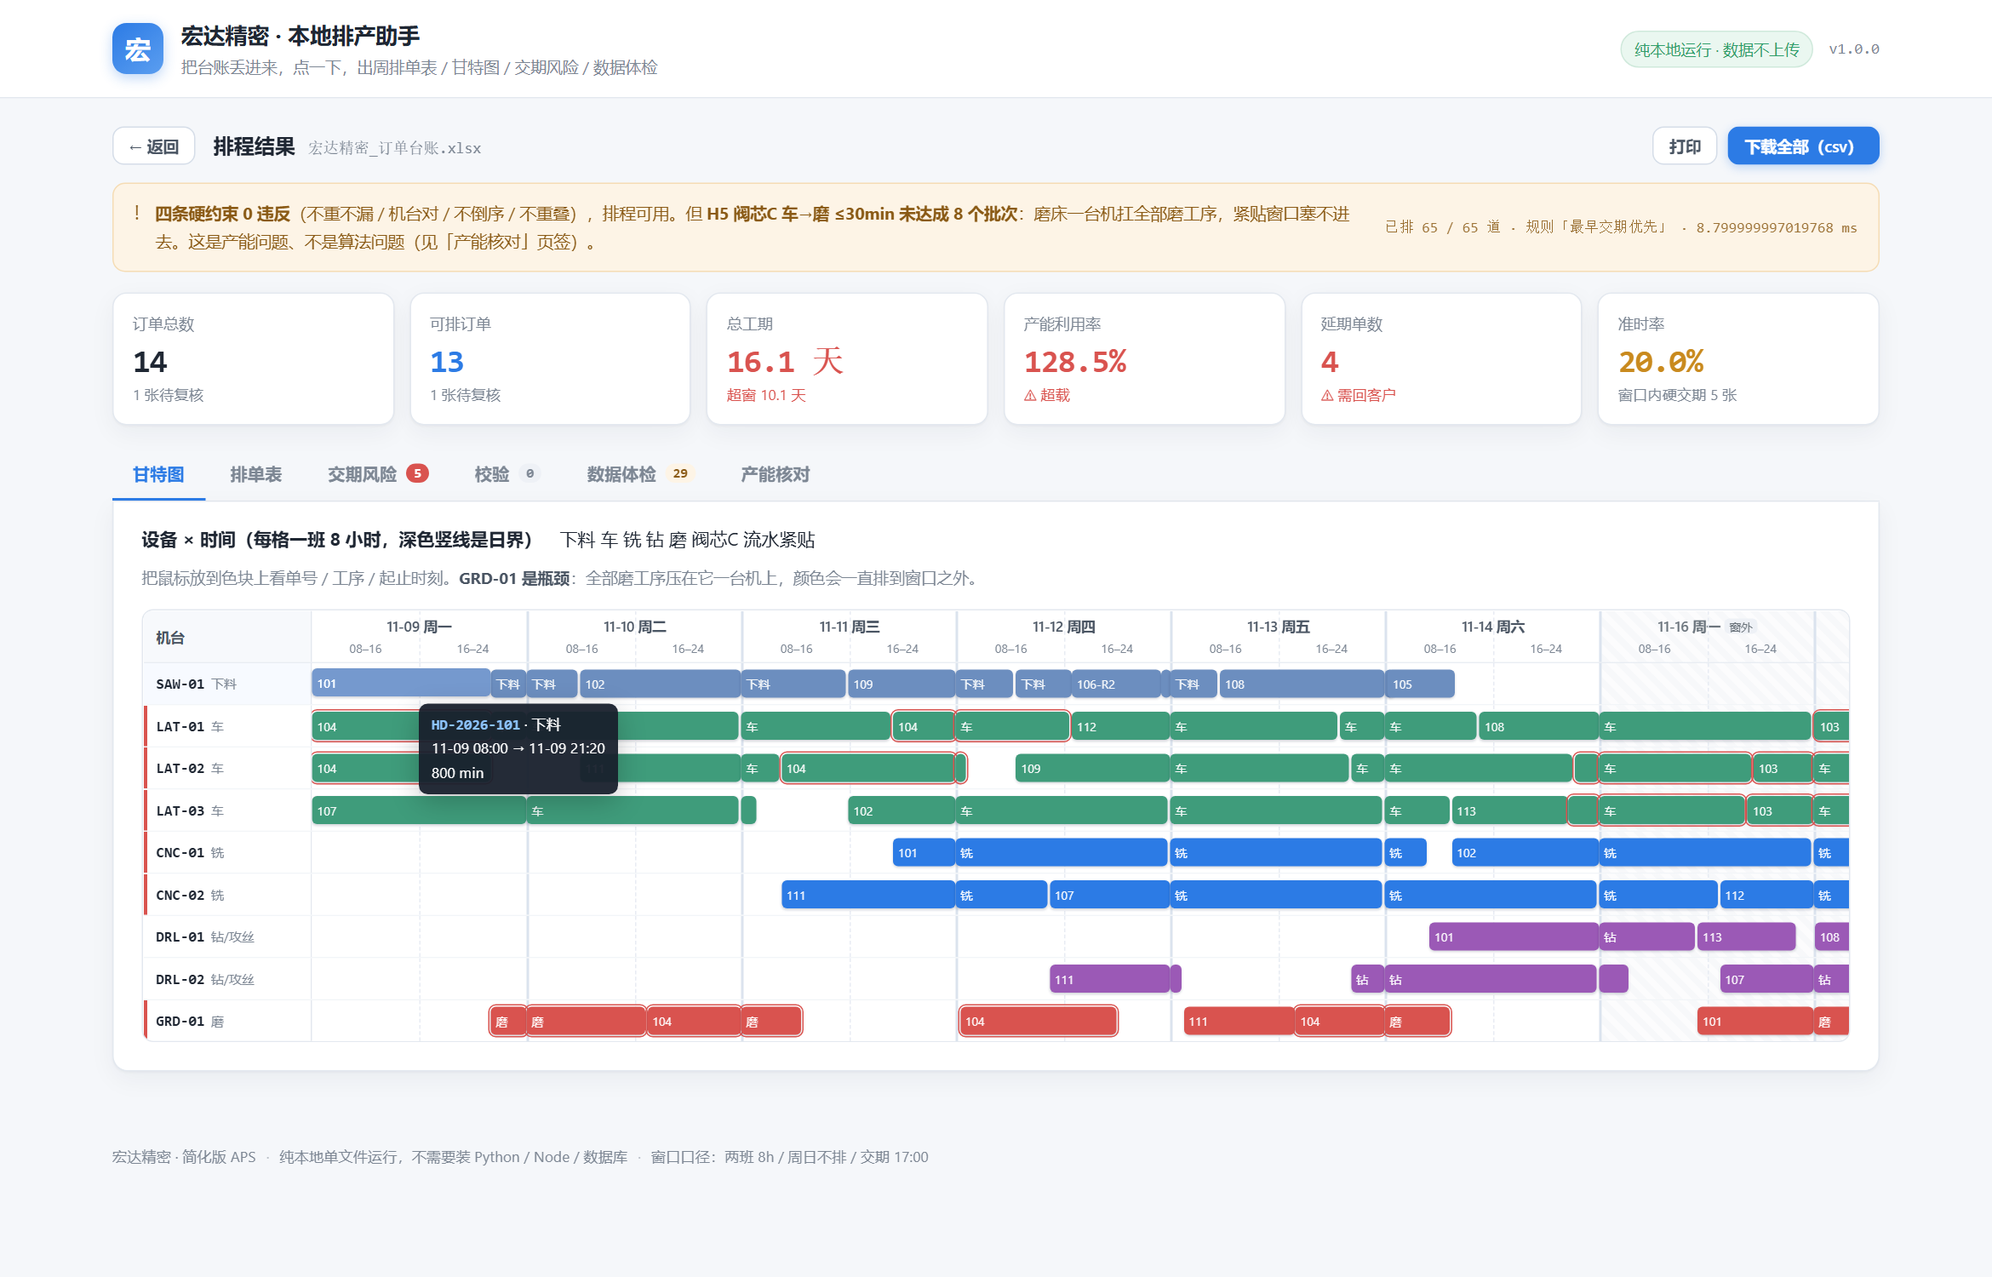
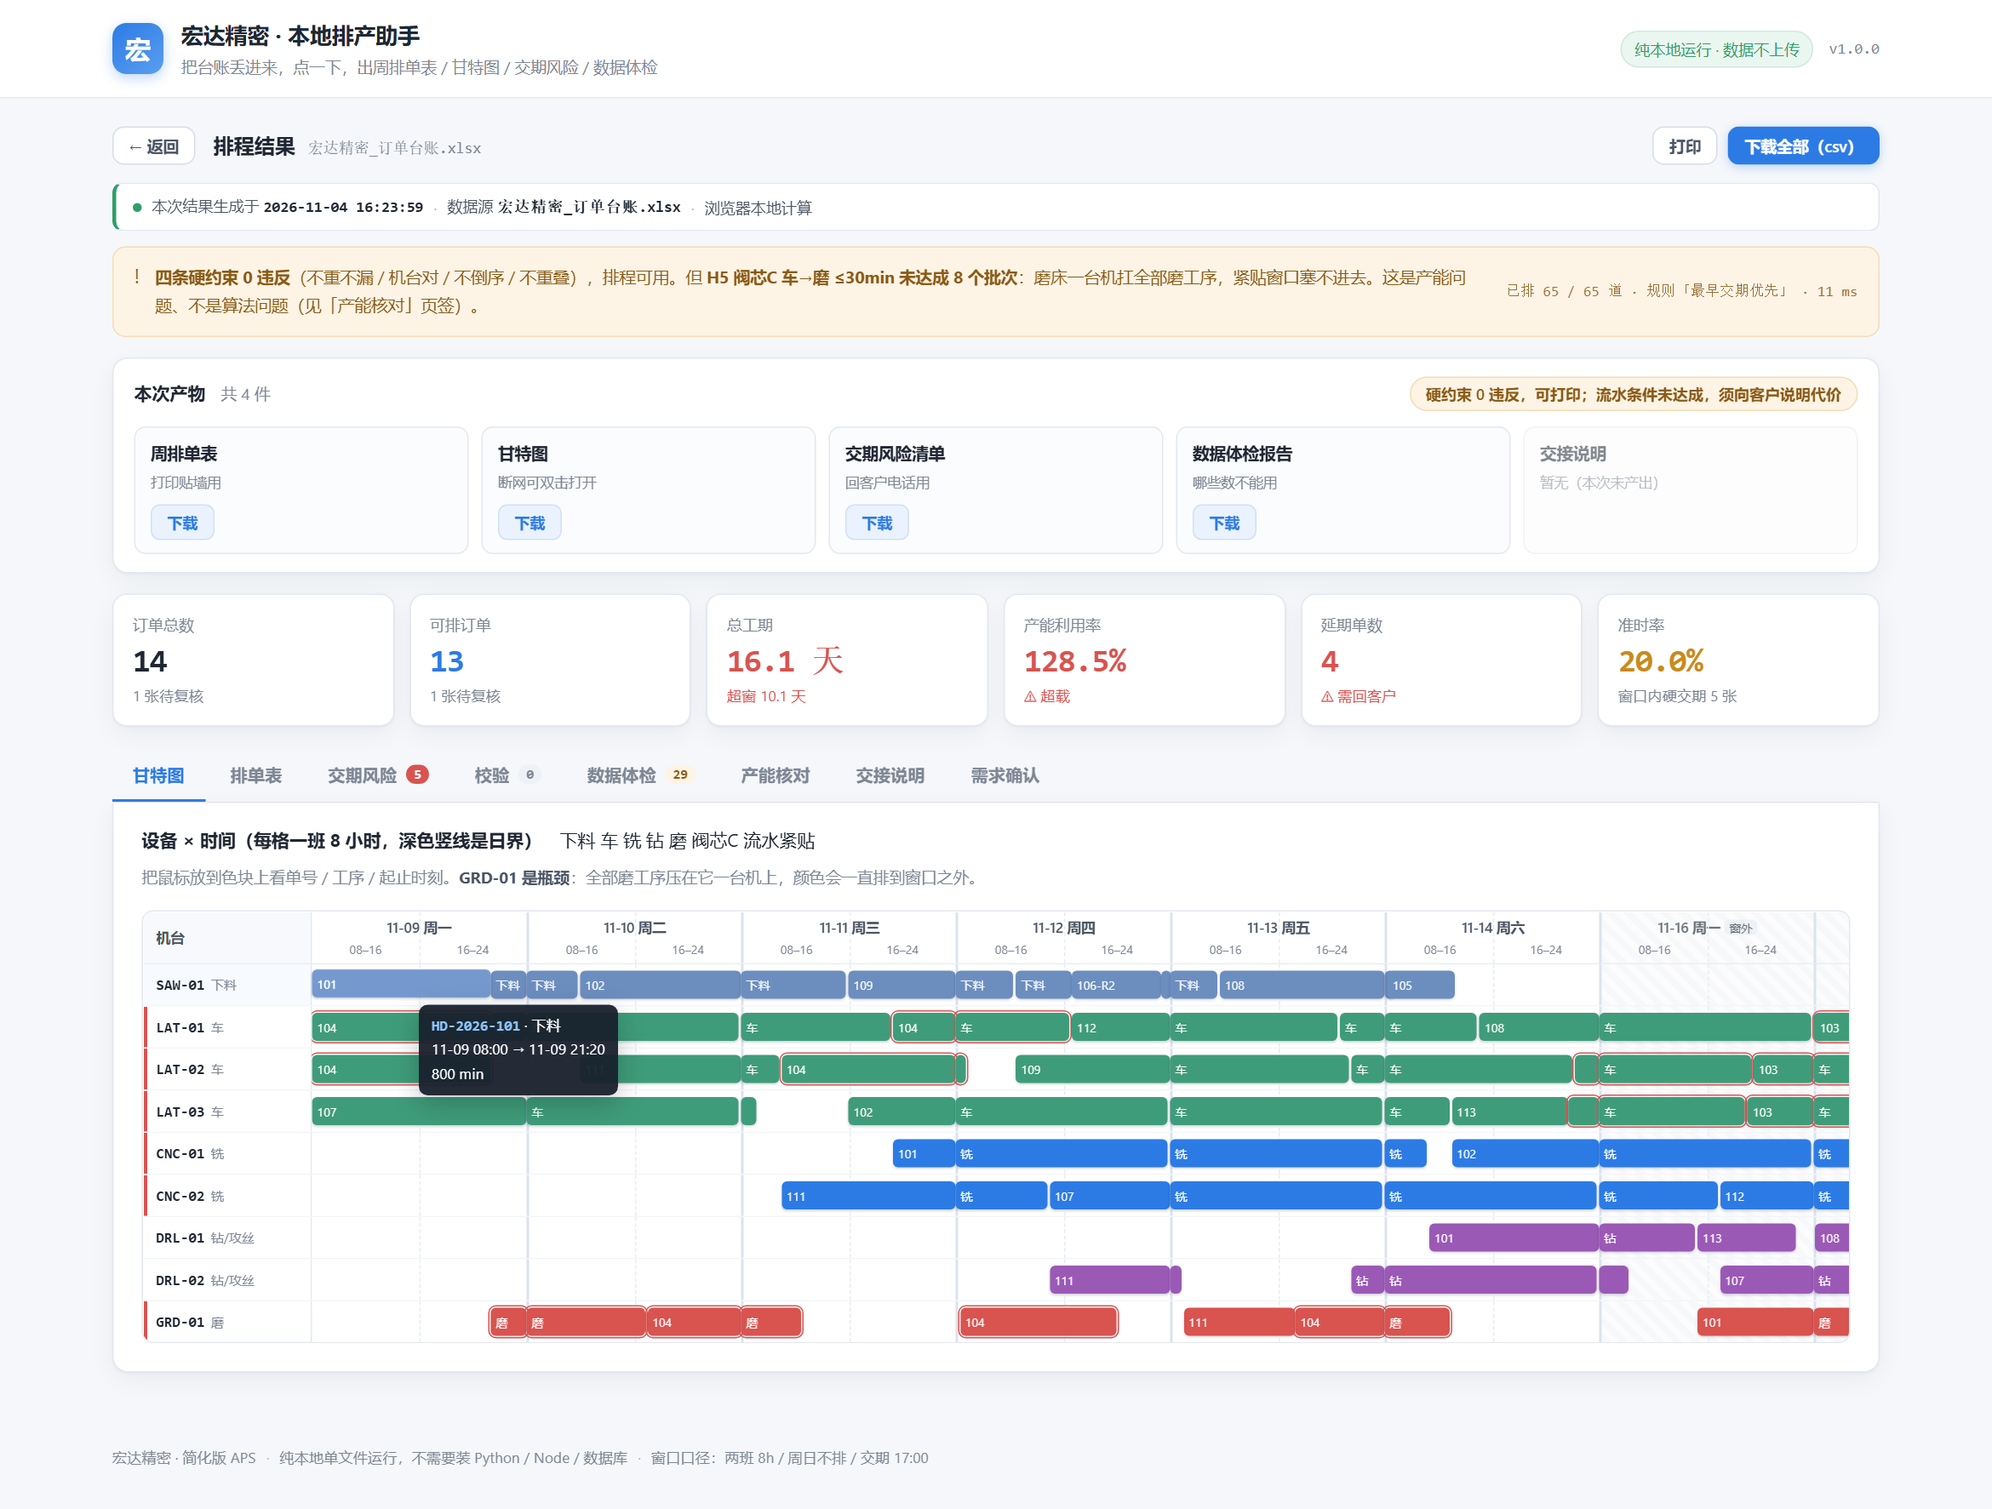
docs: 截图更新至 17 张，补并行开发说明与目录树
- docs/ui/ 更新实拍截图（新增产物区/失败态/交接说明/需求确认 5 张）
- 附录E 交付清单补全至 17 张
- README 目录树补 core/confirm.py、core/handover.py、frontend/datasource.js
- 产物口径改为七件
- 新增 docs/并行开发/：前后端分头改的任务边界说明

diff --git a/docs/并行开发/后端任务说明.md b/docs/并行开发/后端任务说明.md
@@ -1,0 +1,112 @@
+【范围】宏达精密 · 本地排产助手，后端部分。只改这些文件与目录：
+run.py、core/（report.py / checker.py / 新增 confirm.py）、server/app.py、tests/。
+不要碰 frontend/ 下任何文件——前端由另一个会话并行改。
+
+【项目现状】入口 python run.py data/宏达精密_订单台账.xlsx --out out
+产出：排单表.xlsx / 甘特图.html / 风险清单.xlsx / 体检报告.md / 校验报告.txt
+校验器 H1~H5：H1 不重不漏、H2 机台工时一致、H3 不倒序、H4 同机台不重叠、H5 阀芯C 流水间隔。
+唯一外部依赖 openpyxl。tests/test_core.py 现有 46 条单测，必须保持全绿。
+
+════════ 任务 B1 · 补齐「交接说明」产物 ════════
+【为什么】PPT 第9页要求交六件，第21页写「四样缺一不可，只交前两样是做了个模型，
+不是交付」，第26页把「没有交接说明」列为直接不及格。现在完全没有这份产物。
+
+【做什么】在 core/report.py 新增 write_handover_md()，run.py 第 7 步与另外四件一起调用，
+输出 out/交接说明.md。内容四块，写给不懂技术的计划员，禁止出现 solver / CP-SAT / Operation：
+
+1. 怎么重跑——台账放哪、敲哪条命令、产物在哪；4~6 个常用参数各写「什么时候该用它」
+   （--enable-grd02 / --morning-as-group / --enable-cnc03 / --lot-size N /
+   --allow-mill-substitute）；先看校验报告.txt 的「结果：」一行，再看风险清单
+2. 假设清单 ≥5 条，每条必须两半：「假设是什么」+「不成立会怎样」
+   覆盖：三班车床按两班、换型调机未建模、人员资质未建模、工时按标准值、
+   只排本周 6 天周日不排、磨点名 GRD-01、HT-01 外协不计本厂产能
+3. 已知局限：不建模换型（实际完工会晚 10~30%）、不建模人员资质、
+   插单只预演不自动重排、阀芯C「车间隔 ≤30 分钟」为口头澄清未签字
+4. 什么条件下不能信：CNC-03 停机期间禁换机台会大量排不进、
+   磨床瓶颈一变结论就变、数据改了必须重跑不许手改表
+
+【硬约束】必须程序生成、随数据和参数自动更新，不许写死一份手写文档；
+参数/假设/局限三处内容从 config.py 与 RunOptions 取，不在模板里复制会脱钩的副本；
+PASS_WITH_WARN 时仍要生成；不引入新依赖。
+
+【验收】
+1. 跑完 out/交接说明.md 存在，退出码 0
+2. 文档里每个参数名都能被 python run.py --help 查到（双向核对，错一个即不通过）
+3. 假设清单 ≥5 条且每条两个部分齐全
+4. 换一份改了数量的台账重跑，文中引用的数量/窗口/机台数跟着变
+
+════════ 任务 B2 · 补齐「需求确认单」产物 ════════
+【为什么】PPT 第9页第 1 件交付物就是需求确认单（一页纸 = 我理解的三件事 + 我问到的答复），
+第16页要求「从 10 个必问问题里挑 5 个」，自检点是「每个答复是否改变了你的某个判断」。
+
+【更要紧的一条】config.py 的 FLOW_CONSTRAINTS 有一条定量约束：
+阀芯C 车完工→磨开工等待 ≤30 分钟，source 标为「客户 2026-10-28 澄清 C3」，confirmed: False。
+但「30 分钟」在 27 页 PPT、APS工具开发任务书.docx、APS工具开发项目手册.docx 里
+全部查不到出处。这条未签字的口头约束现在决定了整个交付结论的性质
+（磨床缺口 6,590 → 7,940 min，差约 1.4 个工作日）。必须让它对客户可见。
+
+【做什么】新增 core/confirm.py 生成 out/需求确认单.md，固定五段：
+① 我理解的三件事（恰 3 条，每条一句，取自 PPT 第7页客户原话）
+② 客户明确不要的（装一堆东西 / 必须联网 / 按年付费）
+③ 恰 5 个问答，三列表格：问题 | 客户答复 | 这个答复改变了什么判断
+④ 未确认事项单列一节：把 FLOW_CONSTRAINTS 里 confirmed: False 的全列出，
+   每条写当前取值、来源、已按此实现、客户确认后改哪里
+⑤ 待客户签字栏（姓名 / 日期 / 逐条打勾）
+
+5 个问题从这批里挑最能影响结果的：时间原点、班次口径（LAT-03 是否 3 班）、
+交期口径（当日 17:00 还是收工前）、「尽快」「月底前」怎么算、
+CNC-03 停几天且期间能否换机台、GRD-02 能否分担磨、
+阀芯C「别排太散」具体多少分钟、HD-2026-110 数量何时给、
+HD-2026-106 重复两次是两单还是一单、HD-2026-113「先做一半」按 17.5 件对不对。
+代表答的客户答复若暂无答复，写「待客户确认」，严禁编造。
+
+【硬约束】不许出现第二份「30 分钟」字面副本，确认单取值从 config.py 读取，单一数据源；
+不改 H5 阈值与判定逻辑；对客户的文档不许出现代码文件名与内部术语。
+
+【验收】
+1. 单页 A4 放得下，三件事恰 3 条、问答恰 5 条
+2. 每个问答第三列都有内容，空值即不通过（写不出来说明该换问题）
+3. 把 max_gap_min 由 30 改 25 重新生成，第④节数值变 25（证明未硬编码），改回 30
+4. 单子里机台号/单号与 data/宏达精密_订单台账.xlsx 实际存在的一致，错一个即不通过
+
+════════ 任务 B3 · 产物新鲜度自洽 ════════
+【问题】run.py 现在先写体检报告和校验报告，再 if not rep.ok: 打印
+「[校验未过] 拒绝渲染排程表/甘特图/风险清单」并 return 1 —— 不写三件，但也不清理旧文件。
+实测 out/ 会同时存在「校验报告.txt 说 FAIL」和「排单表.xlsx / 甘特图.html / 风险清单.xlsx
+是上一次成功运行的旧版本」。计划员按习惯直接打印 out/排单表.xlsx 贴墙，
+就把上一版当成这一版用，没有任何提示。正是 PPT 第24页「换了数据就跑不了」、
+第25页「校验器 0 违反，全过再交」要防的事故。
+
+【做什么】采用归档方案（不要直接删）：
+1. 校验未过时，把三件旧产物逐个精确改名加 .stale 或移到 out/_stale/，
+   并在校验报告.txt 写「本次未生成，上一版已归档到 _stale/」
+2. 校验通过（含 PASS_WITH_WARN）时行为不变：五件产物正常写，覆盖归档
+3. H5 未达成不得导致不出表——H5 是客户流水条件不是硬约束，PASS_WITH_WARN 必须出全部产物
+4. 写文件前打印清单：这次生成了哪几件、跳过哪几件、归档哪几件
+
+【硬约束】严禁通配符删除（*.xlsx、*_backup* 之类）——这个目录下有用户自己的备份，
+曾因 find -name "*.bak*" -delete 误删过；所有删除/移动先打印绝对路径再执行，只用逐个精确文件名。
+不改排程算法、不改 H5 阈值、不加依赖。
+
+【验收】
+1. 用缺 sheet 的 xlsx 跑，out/ 下不留「看起来新鲜」的旧排单表，或已明确归档且有提示
+2. 正常台账重跑后五件恢复最新、不带 .stale
+3. 校验报告.txt 的结论与 out/ 实际产物集合完全一致
+
+════════ 任务 B4 · 暴露契约字段给前端 ════════
+server/app.py 的 /api/generate 响应按第 0 节契约补齐 summary / verify.hardViolations /
+verify.softViolations / verify.resultCn / artifacts / staleArchived / handover / confirm。
+旧字段一个不删（前端可能还在用）。artifacts 里每项的 downloadUrl 必须真实可下载
+（走现有 /api/download/<name>），stale 文件不得出现在正常 artifacts 列表里，
+只能出现在 staleArchived。
+
+【验收】/api/generate 返回体逐字段对照契约无缺项；前端未改的情况下旧功能不退化。
+
+════════ 后端段总验收（四项全做完一起验）════════
+1. python run.py data/宏达精密_订单台账.xlsx --out out 退出码 0，
+   out/ 下五件产物（含交接说明.md、需求确认单.md）全部刷新
+2. python tests/test_core.py 输出「通过 46 / 失败 0」
+3. 启 python server/app.py --port 8801 后，用 curl 或脚本取一次 /api/generate，
+   返回体契约字段齐全
+注意：改完必须重启 8801 上的服务再验；且确认只有一个 python 进程占着该端口
+（多个实例会连到旧代码，给出假结果——这个坑踩过一次）。

diff --git a/docs/并行开发/前端任务说明.md b/docs/并行开发/前端任务说明.md
@@ -1,0 +1,59 @@
+【范围】宏达精密排产助手前端。只改 frontend/（index.html / app.js / style.css），
+不要碰 run.py、core/、server/app.py——后端由另一个会话并行改，且它照同一份契约输出。
+frontend/engine.js 是纯 JS 排程引擎，本段一律不改它的计算逻辑，数字全部来自 engine.js。
+
+【项目现状】纯浏览器、零依赖、不需构建；app.js 只做渲染；
+后端三个接口 /api/health、/api/generate、/api/download/<name>。
+
+【并行前提】后端正在加三件东西：交接说明产物、需求确认单产物、产物新鲜度归档。
+字段名以契约（summary / verify.hardViolations / verify.softViolations / verify.resultCn /
+artifacts / staleArchived / handover / confirm）为准。
+要求：字段缺失时优雅降级（该面板隐藏或显示「暂无」），不得抛错、不得白屏。
+这一点很重要——后端可能比你晚落地，前端不能等地基。
+
+════════ 任务 F1 · 交接说明面板 ════════
+1. 产物区补一项「交接说明」，与排单表/甘特图/风险清单/体检报告并列，主标签用中文
+2. 加可折叠查看面板，四个小标题（怎么重跑 / 假设 / 局限 / 什么条件下不能信）各成一段
+3. 面板顶部固定提示：「换了一周的台账，这份说明里的参数和假设要跟着重跑才会更新」
+4. 下载：md 一份；后端若提供 html 再给 html（供打印）
+
+【硬约束】不得硬编码参数名、假设清单、局限文字——全部来自后端返回，前端只排版；
+复制一份到 app.js 就会与后端脱钩。不引入任何第三方库，markdown 用简易渲染即可，
+不要为了这个引 marked / markdown-it。
+
+════════ 任务 F2 · 需求确认面板 ════════
+1. 面板四块：我理解的三件事 / 客户不要的 / 5 个问答表格 / 未确认事项，内容全部来自后端
+2. 未确认事项用醒目警示色条，每条格式：
+   「阀芯C 流水间隔 ≤30 分钟 · 未签字确认 · 已按此口径计算」
+3. 产能核对区（磨缺口 6590 那个数字附近）加一行小字：
+   「此缺口在『30 分钟流水间隔』口径下算出；若客户确认口径不同，此数会变」
+   该提示的显示/隐藏由后端 unconfirmed.confirmed 字段驱动，不在前端写死
+4. 生成按钮、下载、打印一律不得因未确认事项被禁用
+
+【硬约束】不在 app.js 复写问题清单；前端不得自行判断 H5 是否「通过」给客户看，
+结论一律以校验报告的 result 为准；不引依赖。
+
+════════ 任务 F3 · 失败态与产物新鲜度 ════════
+【问题】前端失败态只显示一条错误横条，产物区仍可能保留上一次成功生成的下载链接与预览，
+用户分辨不出这是这次的还是上次的。
+
+【做什么】
+1. 每次点「生成」先清空/置灰产物区，进入「生成中」，旧链接不可点
+2. 失败时：错误条保留 + 产物区替换为「本次未生成任何排程产物」明确空态；
+   若后端告知已归档，附一句「上一版已归档，仅供追溯，请勿打印贴墙」，
+   并给归档文件一个「仅查看」样式的次要入口（视觉必须弱于正常下载）；
+   正常下载区不得出现带 .stale 的链接
+3. 成功时（含 PASS_WITH_WARN）正常展示五件产物；PASS_WITH_WARN 用黄色提示条：
+   「硬约束 0 违反，可打印；流水条件未达成，须向客户说明代价」，严禁用红色失败样式
+4. 页面顶部常驻显示本次结果生成时间与数据源文件名，便于判断是不是最新一版
+
+【硬约束】不在前端解析或臆造校验结论，一律用后端 result 字段决定配色与文案。
+
+════════ 前端段总验收 ════════
+1. node test/engine_check.js 全部通过（数字未受影响）
+2. 先正常生成一次再传错误文件：产物区必须变为空态，无残留旧下载链接；
+   归档入口可见但样式弱于正常下载
+3. PASS_WITH_WARN 场景：黄色提示条、五件产物齐全、可预览可下载
+4. NODE_PATH=../.devtools/node_modules node test/browser_check.js 全过、
+   控制台 0 报错（错误态 K/L 与恢复态 M 三组必须仍通过）
+5. 后端 field 缺失时（可临时 mock 空响应）页面不白屏、不抛错

diff --git a/README.md b/README.md
@@ -78,7 +78,7 @@ python tests/test_core.py
 ```
 aps-scheduler/
 ├── config.py          常驻配置（班次、日历、交期口径、机台、工艺路线）
-├── run.py             命令行入口（后端，出四件产物）
+├── run.py             命令行入口（后端，出七件产物）
 │
 ├── core/              排程核心（纯 Python，不依赖 web）
 │   ├── workcal.py     轴分钟 ↔ 挂钟时刻（跳过夜间和周日）
@@ -87,7 +87,9 @@ aps-scheduler/
 │   ├── instance.py    订单 → 工序任务（分钟/件 × 数量）
 │   ├── checker.py     校验器（H1~H5，独立，不 import solver）
 │   ├── solver.py      规则排程（FIFO/SPT/MWKR 取最好）+ C3 子批流水
-│   └── report.py      四件产物
+│   ├── report.py      排单表/甘特图/风险清单/体检/校验
+│   ├── confirm.py     需求确认单（PPT 第 9 页第 1 件交付物）
+│   └── handover.py    交接说明（参数/假设/局限，随运行自动更新）
 │
 ├── server/            本地服务（标准库 http.server，托管前端 + 3 个 API）
 │   └── app.py         python server/app.py --port 8801
@@ -98,7 +100,8 @@ aps-scheduler/
 │   ├── engine.js      纯 JS 排程引擎（与 core/ 口径对齐）
 │   ├── style.css      样式
 │   ├── xlsx-lite.js   纯前端 xlsx 解析
-│   └── test/          parity_check.js 前后端一致性对比
+│   ├── datasource.js  数据源适配层（file:// 走本地引擎 / http 走后端 API）
+│   └── test/          parity_check 一致性 + smoke 三件套冒烟
 │
 ├── tests/             后端单测（test_core.py，46 条）
 ├── docs/              设计文档（N2）

diff --git a/docs/附录/附录E-UI设计.md b/docs/附录/附录E-UI设计.md
@@ -10,7 +10,7 @@
 
 ## E0. 交付清单（`docs/ui/`）
 
-**实拍截图（13 张，覆盖全流程 + 空态 + 错误态）**
+**实拍截图（17 张，覆盖全流程 + 空态 + 错误态 + 产物区）**
 
 | # | 文件 | 内容 |
 |---|---|---|
@@ -27,6 +27,11 @@
 | 10 | `10-不许换机台.png` | 关闭换机台后阀体A 铣全拦（未排入） |
 | 11 | `11-错误态-非xlsx.png` | 传 .txt：红框 + 中文提示 |
 | 12 | `12-错误态-缺sheet.png` | 缺工作表：列出实际有哪些 sheet |
+| 13 | `20-产物区.png` | 产物区：七件产物列表 + 下载全部 / 打印 |
+| 14 | `21-失败态产物区.png` | 失败态：旧下载链接清空、按钮禁用 |
+| 15 | `22-真实后端产物区.png` | 连真实后端时的产物区（含后端下载入口） |
+| 16 | `23-交接说明.png` | 交接说明页签：怎么重跑 / 假设 / 局限 / 什么条件下不能信 |
+| 17 | `24-需求确认.png` | 需求确认单页签：我理解的三件事 / 客户不要的 / 问答 |
 
 **打印版**：`print.pdf`（A4 横向，打印版式目检）
 
